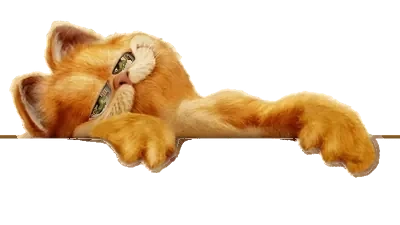
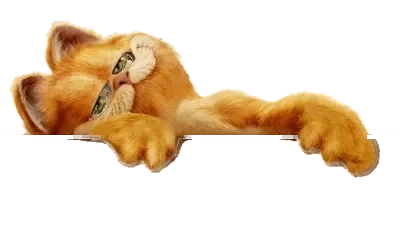
feat(ui): 去掉加菲猫两侧黑线（抹除素材自带柱体）+ 日历图标再上移 15px
1. 加菲猫左右两侧「黑线条」根因是素材自带的一段深色柱体
   - rank-cat 素材里 y=135~138 共 4 行、满宽 400 的柱体，比页面进度条暗约 40%
   - 在猫身两侧露出的两段（x=0~23 / 379~399）显示时被压成约 1.5px，即用户看到的黑线
   - 按列判定清理：穿过猫身的列（下方仍有内容）完全保留，猫身边缘羽化，
     纯裸列清零 → 左右裸区柱体行 alpha 全部为 0；猫身区 alpha 逐像素未变
   - 柱体行保持「存在但透明」，地平线锚点 -60.5% 不用改，猫「站在条上」零漂移

2. 日历图标相对上一版再上移 15px
   - --cal-lift: 25px → 40px（transform 不参与布局，尺寸/层级/对齐关系全不变）
   - 图标已整体抬到 .rank-list 顶部之上，与上方提示文字水平不相交、无遮挡

验证：
- 全量回归 84/84（verify6 35 + gold2 27 + ring30 8 + ring30.py 5 + motion30 5 + theme30 4）
- 本轮专项 verify41 25/25（精确上移 15.00px、行高 76 不变、热区 24×24、DPR 1/2/3 无偏移）
- 本轮专项 verify41b 23/23（素材级 alpha 归零 + 三套真实主题渲染均无暗带落差）

style.css?v=94 / app.js?v=88 / fx.js?v=15

Changed region(s): [[0.45, 0.5911, 0.75, 0.6222], [0.0, 0.5911, 0.27, 0.6222], [0.9, 0.5911, 1.0, 0.6222]]

diff --git a/docs/style.css b/docs/style.css
@@ -939,8 +939,10 @@ select:hover, .seg button:hover { border-color: var(--border-hi); }
        · 命中测试跟随 transform → 24×24 热区与肉眼看到的图标严格重合，不会错位。
      只调 --cal-lift 一个值即可改高低。参考量程：起点 0（贴住日期文字）；
      10 时图标顶进入 .rank-list 的 18px 上内边距约 7.6px、距上方提示行仍有 24px
-     余量；约 24 时图标整体抬到行顶之上；再大会撞到列表上方的「近 14 天」提示。 */
-  --cal-lift: 25px;
+     余量；25 时距上方提示行余 9.4px（贴着但未重叠，安全下限）；
+     第 41 轮再上移 15px → 40px：图标整体抬到 .rank-list 顶部之外，
+     与上方提示行不再有交集，视觉上更贴近「最近游玩」标题。 */
+  --cal-lift: 40px;
   transform: translateY(calc(-1 * var(--cal-lift)));
   width: 24px; height: 24px; display: block;
   color: var(--text-faint); opacity: .5; cursor: pointer;

diff --git a/docs/index.html b/docs/index.html
@@ -28,7 +28,7 @@
 <link rel="preload" href="blackrose.woff2" as="font" type="font/woff2" crossorigin>
 <link rel="preconnect" href="https://cdn.cloudflare.steamstatic.com" crossorigin>
 <link rel="preconnect" href="https://media.steampowered.com" crossorigin>
-<link rel="stylesheet" href="style.css?v=93">
+<link rel="stylesheet" href="style.css?v=94">
 <script>
   /* 主脚本加载失败（网络波动 / 部署窗口期 404 / 缓存问题）时的可见兜底 */
   window.__appFail = function () {
